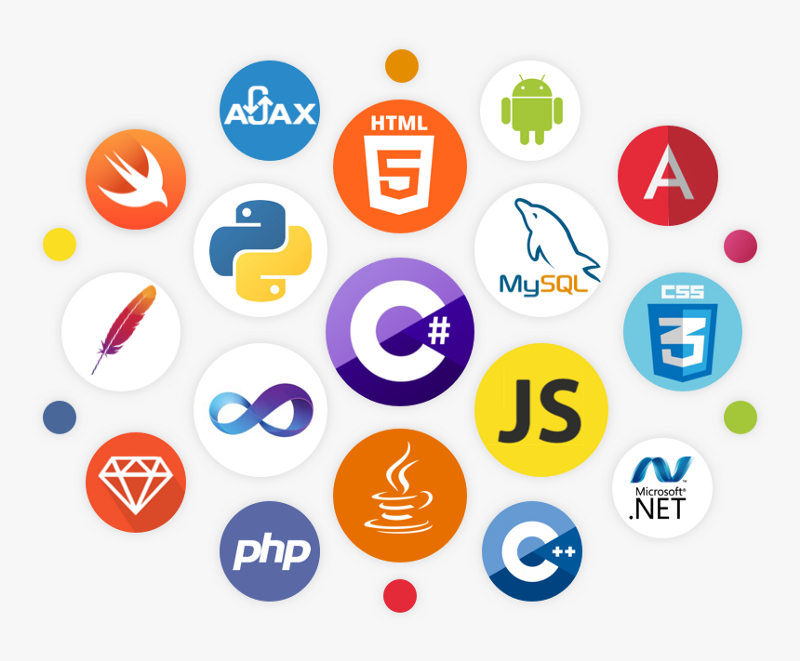
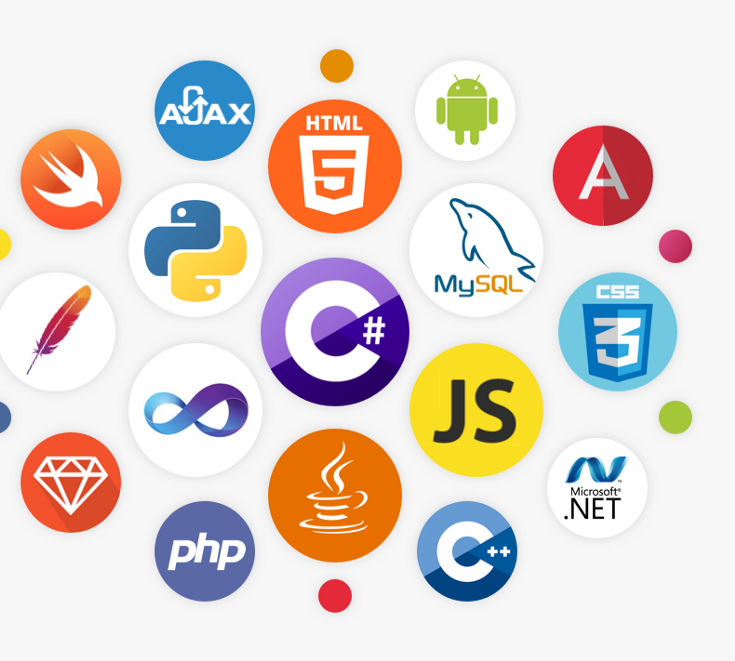
added

diff --git a/css/app.min.css b/css/app.min.css
@@ -2558,7 +2558,7 @@ a.btn {
         margin-bottom: 24px; } }
     .details__preview_cursor {
       /* background: #FFD301; */
-      background: url('..///../img/c.png');
+      background: url('..///../img/ProgrammingIllustration.png');
       background-size: cover; 
      }
       .details__preview_cursor .details__img {
